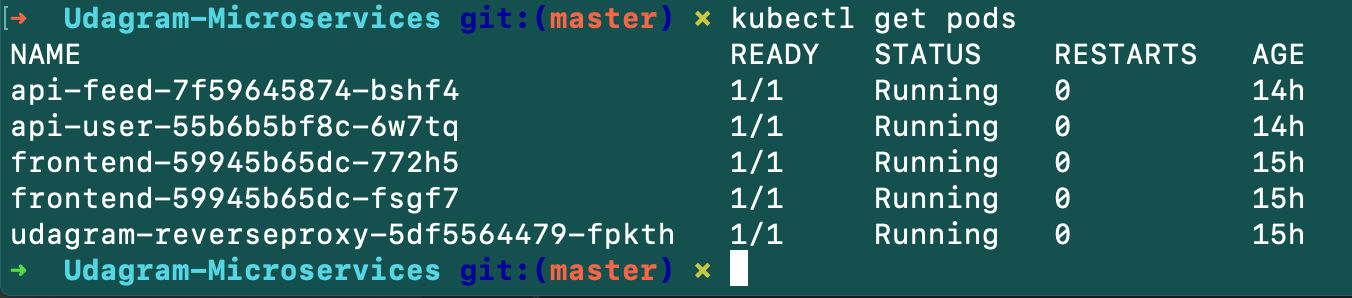
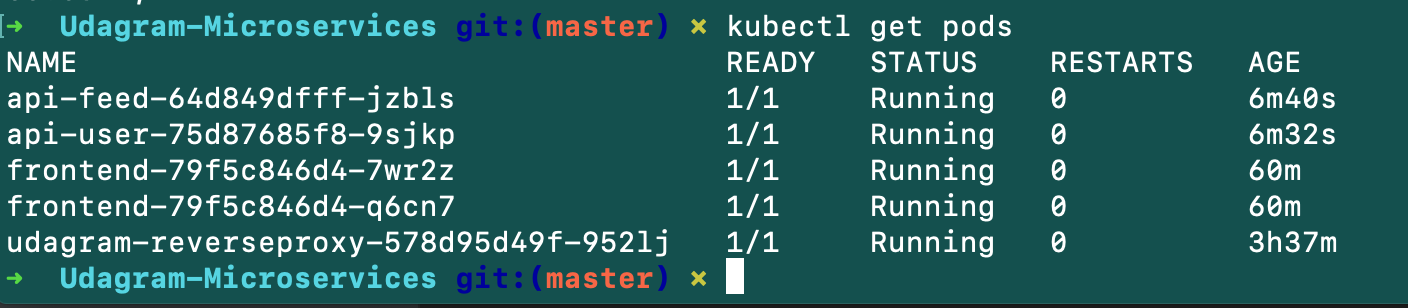
Refator Docker Deployments

diff --git a/screenshots/README.md b/screenshots/README.md
@@ -39,3 +39,11 @@ kubectl describe hpa
 ```bash
 kubectl logs {pod_name}
 ```
+1) User API Logs
+
+![Screenshot](User-API.png)
+
+2) Feed API Logs
+   
+![Screenshot](Feed-API.png)
+    
